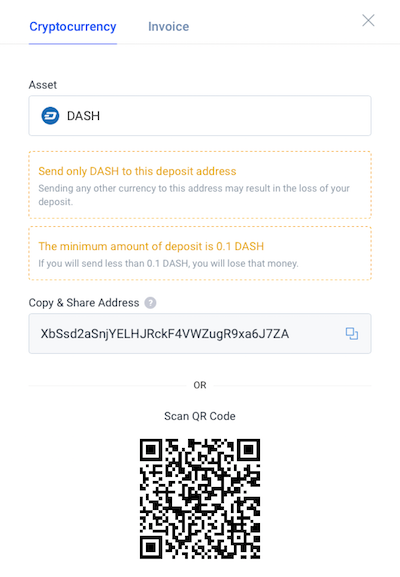
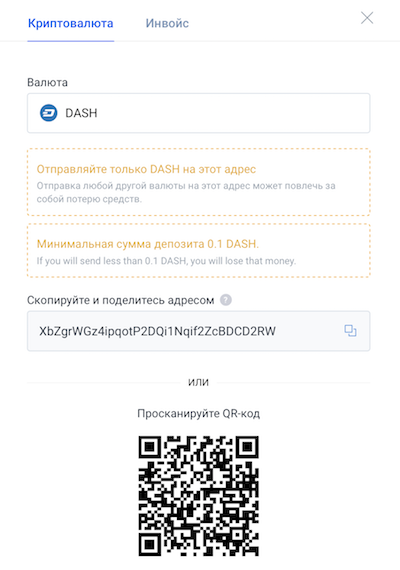
Updates

diff --git a/ru/waves-client/transfers-and-gateways/monero-transfers.md b/ru/waves-client/transfers-and-gateways/monero-transfers.md
@@ -1,63 +1,73 @@
-# How to receive and send Monero
+# **Как отправить и получить Monero**.
 
-Waves allow you to hold and transfer Monero on its blockchain. This works through a so-called Multigateway approach: Monero sent to a user's deposit address available in the Waves wallet and after the deposit the user receives a Monero token \(wMonero\) on the Waves blockchain. Every single Monero token is backed 1:1 with a real Monero.
+Waves client позволяет хранить и переводить Monero внутри сети Waves. Это возможно благодаря шлюзу: Monero поступают на Monero адрес выданный пользователю в Waves client, а взамен пользователь получает ассет Monero в сети Waves (wMonero). При выводе wMonero из сети Waves пользователь получает Monero из расчета 1:1.
 
-Read more about [What is a payment gateway?](/frequently-asked-questions-faq/transfers-and-gateways/payment-gateway.md)
+Всю исчерпывающую информацию о работе Monero шлюза вы найдёте в этой статье [Что такое платежный шлюз](/ru/frequently-asked-questions-faq/transfers-and-gateways/payment-gateway.md)
 
-## **How to receive Monero**
+## **Как получить Monero**.
 
-Open your Waves wallet
-In the Monero section, click on the **Receive**.
+Откройте свой Waves кошелек и в секции Monero нажмите **Получить**.
 
-![](/_assets/monero_transfers_01.png)
+![](/ru/_assets/monero_transfers_01.png)
 
-The following pop-up will appear.
-Copy the shown Monero address or Scan QR Code and send a payment.
-Read the conditions carefully in yellow boxes before proceeding.
+В появившемся окне вы увидите Monero адрес.
+Используйте его в качестве адреса получателя, чтобы ввести Monero в свой Waves аккаунт
+А также вы можете просканировать QR-код, в котором зашифрован этот Monero адрес.
+Перед этим внимательно прочитайте условия ввода Monero, которые выделены жёлтой пунктирной линией.
 
-**Note**: Monero Payment ID already included in the recipient Monero address.
-But if the sender side required Payment ID, please contact Coinomat support team - support@coinomat.com
+**Внимание**: Monero Payment ID уже включен в адрес получателя Monero.
+Но если стороне отправителя требуется Payment ID (идентификатор платежа), обратитесь в службу поддержки Coinomat - **support@coinomat.com**
 
-![](/_assets/monero_transfers_02.png)
+![](/ru/_assets/monero_transfers_02.png)
 
-**Note**: Processing can take up to 120 minutes.
+**Внимание**: процесс ввода Monero в ваш Waves аккаунт может занять до 120 минут.
 
-## **How to send Monero**
+## **Как отправить Monero**.
 
-Open your Waves wallet  
-In the Monero section, click on the **Send** button.
+Откройте ваш Waves кошелек и в Monero секции нажмите **Отправить**.
 
-![](/_assets/monero_transfers_03.png)
+![](/ru/_assets/monero_transfers_01.png)
 
-The following pop-up will appear.
+В появившемся окне введите:
 
-Paste the Monero address you want to send to, Payment ID which you are getting from the recipient side as well as the amount of Monero.
+- в строку **Получатель** Monero адрес получателя;
+- в строку **Количество** сумму Monero, которую вы хотите отправить на Monero адрес Получателя.
 
-Please note that the gateway charges 0.01 Monero for the gateway fee as well as 0.001 Waves for the network fee. Read the conditions carefully in yellow boxes before proceeding.
-After you have filled the form, click on the **Continue** button.
+**Будьте внимательны**: комиссия Monero шлюза за обработку транзакции составит 0,01 Monero, а комиссия сети Waves за проведение транзакции составлит 0,001 Waves.
 
-![](/_assets/monero_transfers_04.png)
+Внимательно прочитайте условия вывода Monero, которые выделены жёлтой пунктирной линией.
 
-The following pop-up will appear.  
-To complete the operation, click on the **Confirm** or **Back** to repeat the process.
+После заполнения всех строк и прочтения условий нажмите **Продолжить**.
 
-![](/_assets/monero_transfers_05.png)
+![](/ru/_assets/monero_transfers_04.png)
 
-**Note**: Processing can take up to 120 minutes.
+Ещё раз проверьте данные транзакции в появившемся окне.
 
-## **How to create internal transaction through Waves network**
+Если все данные верны нажмите **Подтвердить**. Для корректировки данных нажмите **Назад**.
 
-You can send Monero directly to another Waves account, just use the recipient Waves address, click on Send and fill-in the sending form.
+![](/ru/_assets/monero_transfers_05.png)
 
-**Note.** The network fee is only 0.001 Waves \(no gateway fee\)
+**Внимание**: процесс ввода Monero в ваш Waves аккаунт может занять до 120 минут.
 
-![](/_assets/monero_transfers_06.png)
+## **Как перевести Monero в другой Waves аккаунт**.
 
-After you have completed the form, click on the **Continue** button.
+Откройте ваш Waves кошелек и в Monero секции нажмите **Отправить**.
 
-![](/_assets/monero_transfers_07.png)
+![](/ru/_assets/monero_transfers_01.png)
 
-The following pop-up will appear.  
-To complete the operation, click on the **Confirm** or **Back** to repeat the process.
+В появившемся окне введите:
 
-![](/_assets/monero_transfers_08.png)
+- в строку **Получатель** Waves адрес получателя;
+- в строку **Количество** сумму Monero, которую вы хотите отправить на Waves адрес Получателя.
+
+**Будьте внимательны**: комиссия сети Waves за проведение транзакции составит 0,001 Waves.
+
+После заполнения всех строк нажмите **Продолжить**.
+
+![](/ru/_assets/monero_transfers_07.png)
+
+Ещё раз проверьте данные транзакции в появившемся окне.
+
+Если все данные верны нажмите **Подтвердить**. Для корректировки данных нажмите **Назад**.
+
+![](/ru/_assets/monero_transfers_08.png)

diff --git a/ru/waves-client/transfers-and-gateways/bitcoin-cash-transfers.md b/ru/waves-client/transfers-and-gateways/bitcoin-cash-transfers.md
@@ -1,59 +1,70 @@
-# How to receive and send Bitcoin Cash
+# **Как отправить и получить Bitcoin Cash**.
 
-Waves allow you to hold and transfer Bitcoin Cash on its blockchain. This works through a so-called Multigateway approach: Bitcoins Cash are sent to a user's deposit address available in the Waves wallet and after the deposit the user receives a Bitcoin Cash token \(wBCH\) on the Waves blockchain. Every single Bitcoin Cash token is backed 1:1 with a real Bitcoin Cash.
+Waves client позволяет хранить и переводить Bitcoin Cash внутри сети Waves. Это возможно благодаря шлюзу: Bitcoin Cash поступают на Bitcoin Cash адрес выданный пользователю в Waves client, а взамен пользователь получает ассет Bitcoin Cash в сети Waves (wBCH). При выводе wBCH из сети Waves пользователь получает Bitcoin Cash из расчета 1:1.
 
-Read more about [What is a payment gateway?](/frequently-asked-questions-faq/transfers-and-gateways/payment-gateway.md)
+Всю исчерпывающую информацию о работе Bitcoin Cash шлюза вы найдёте в этой статье [Что такое платежный шлюз](/ru/frequently-asked-questions-faq/transfers-and-gateways/payment-gateway.md)
 
-## **How to receive Bitcoin Cash**
+## **Как получить Bitcoin Cash**.
 
-Open your Waves wallet  
-In the Bitcoin Cash section, click on the **Receive** button.
+Откройте свой Waves кошелек и в секции Bitcoin Cash нажмите **Получить**.
 
-![](/_assets/bch_transfers_01.png)
+![](/ru/_assets/bch_transfers_01.png)
 
-The following pop-up will appear.  
-Copy the shown Bitcoin Cash address or Scan QR Code and send a payment.  
-Read the conditions carefully in yellow boxes before proceeding.
+В появившемся окне вы увидите Bitcoin Cash адрес.
+Используйте его в качестве адреса получателя, чтобы ввести Bitcoin Cash в свой Waves аккаунт
+А также вы можете просканировать QR-код, в котором зашифрован этот Bitcoin Cash адрес.
+Перед этим внимательно прочитайте условия ввода Bitcoin Cash, которые выделены жёлтой пунктирной линией.
 
-![](/_assets/bch_transfers_02.png)
+![](/ru/_assets/bch_transfers_02.png)
 
-**Note**: Processing can take up to 120 minutes.
+**Внимание**: процесс ввода Bitcoin Cash в ваш Waves аккаунт может занять до 120 минут.
 
-## **How to send Bitcoin Cash**
+## **Как отправить Bitcoin Cash**.
 
-Open your Waves wallet  
-In the Bitcoin Cash section, click on the **Send** button.
+Откройте ваш Waves кошелек и в Bitcoin Cash секции нажмите **Отправить**.
 
-![](/_assets/bch_transfers_01.png)
+![](/ru/_assets/bch_transfers_01.png)
 
-The following pop-up will appear.  
-Paste the Bitcoin Cash address you want to send to as well as the amount of Bitcoin Cash.  
-Please note that the gateway charges 0.01 BCH for the gateway fee as well as 0.001 Waves for the network fee. Read the conditions carefully in yellow boxes before proceeding.
+В появившемся окне введите:
 
-After you have filled the form, click on the **Continue** button.
+- в строку **Получатель** Bitcoin Cash адрес получателя;
+- в строку **Количество** сумму Bitcoin Cash, которую вы хотите отправить на Bitcoin Cash адрес Получателя.
 
-![](/_assets/bch_transfers_04.png)
+**Будьте внимательны**: комиссия Bitcoin Cash шлюза за обработку транзакции составит 0,01 BCH, а комиссия сети Waves за проведение транзакции составлит 0,001 Waves.
 
-The following pop-up will appear.  
-To complete the operation, click on the **Confirm** or **Back** to repeat the process.
+Внимательно прочитайте условия вывода Bitcoin Cash, которые выделены жёлтой пунктирной линией.
 
-![](/_assets/bch_transfers_05.png)
+После заполнения всех строк и прочтения условий нажмите **Продолжить**.
 
-**Note**: Processing can take up to 120 minutes, the minimum amount is 0.001 BCH.
+![](/ru/_assets/bch_transfers_04.png)
 
-## **How to create internal transaction through Waves network**
+Ещё раз проверьте данные транзакции в появившемся окне.
 
-You can send Bitcoin Cash directly to another Waves account, just use the recipient Waves address, click on Send and fill-in the sending form.
+Если все данные верны нажмите **Подтвердить**. Для корректировки данных нажмите **Назад**.
 
-**Note.** The network fee is only 0.001 Waves \(no gateway fee\)
+![](/ru/_assets/bch_transfers_05.png)
 
-![](/_assets/bch_transfers_01.png)
+**Внимание**: процесс ввода Bitcoin Cash в ваш Waves аккаунт может занять до 120 минут.
 
-After you have completed the form, click on the **Continue** button.
+## **Как перевести Bitcoin Cash в другой Waves аккаунт**.
 
-![](/_assets/bch_transfers_07.png)
+Откройте ваш Waves кошелек и в Bitcoin Cash секции нажмите **Отправить**.
 
-The following pop-up will appear.  
-To complete the operation, click on the **Confirm** or **Back** to repeat the process.
+![](/ru/_assets/bch_transfers_01.png)
 
-![](/_assets/bch_transfers_08.png)
+В появившемся окне введите:
+
+- в строку **Получатель** Waves адрес получателя;
+- в строку **Количество** сумму Bitcoin Cash, которую вы хотите отправить на Waves адрес Получателя.
+
+**Будьте внимательны**: комиссия сети Waves за проведение транзакции составит 0,001 Waves.
+
+После заполнения всех строк нажмите **Продолжить**.
+
+![](/ru/_assets/bch_transfers_07.png)
+
+Ещё раз проверьте данные транзакции в появившемся окне.
+
+Если все данные верны нажмите **Подтвердить**. Для корректировки данных нажмите **Назад**.
+
+![](/ru/_assets/bch_transfers_08.png)

diff --git a/ru/waves-client/transfers-and-gateways/dash-transfers.md b/ru/waves-client/transfers-and-gateways/dash-transfers.md
@@ -1,60 +1,70 @@
-# How to receive and send Dash
+# **Как отправить и получить Dash**.
 
-Waves allow you to hold and transfer Dash on its blockchain. This works through a so-called Multigateway approach: Dash sent to a user's deposit address available in the Waves wallet and after the deposit the user receives a Dash token \(wDASH\) on the Waves blockchain. Every single Dash token is backed 1:1 with a real Dash.
+Waves client позволяет хранить и переводить Dash внутри сети Waves. Это возможно благодаря шлюзу: Dash поступают на Dash адрес выданный пользователю в Waves client, а взамен пользователь получает ассет Dash в сети Waves (wDASH). При выводе wDASH из сети Waves пользователь получает Dash из расчета 1:1.
 
-Read more about [What is a payment gateway?](/frequently-asked-questions-faq/transfers-and-gateways/payment-gateway.md)
+Всю исчерпывающую информацию о работе Dash шлюза вы найдёте в этой статье [Что такое платежный шлюз](/ru/frequently-asked-questions-faq/transfers-and-gateways/payment-gateway.md)
 
-## **How to receive Dash**
+## **Как получить Dash**.
 
-Open your Waves wallet
-In the Dash section, click on the **Receive**.
+Откройте свой Waves кошелек и в секции Dash нажмите **Получить**.
 
-![](/_assets/dash_transfers_01.png)
+![](/ru/_assets/dash_transfers_01.png)
 
-The following pop-up will appear.
-Copy the shown Dash address or Scan QR Code and send a payment.
-Read the conditions carefully in yellow boxes before proceeding.
+В появившемся окне вы увидите Dash адрес.
+Используйте его в качестве адреса получателя, чтобы ввести Dash в свой Waves аккаунт
+А также вы можете просканировать QR-код, в котором зашифрован этот Dash адрес.
+Перед этим внимательно прочитайте условия ввода Dash, которые выделены жёлтой пунктирной линией.
 
-![](/_assets/dash_transfers_02.png)
+![](/ru/_assets/dash_transfers_02.png)
 
-**Note**: Processing can take up to 120 minutes.
+**Внимание**: процесс ввода Dash в ваш Waves аккаунт может занять до 120 минут.
 
-## **How to send Dash**
+## **Как отправить Dash**.
 
-Open your Waves wallet  
-In the Dash section, click on the **Send** button.
+Откройте ваш Waves кошелек и в Dash секции нажмите **Отправить**.
 
-![](/_assets/dash_transfers_03.png)
+![](/ru/_assets/dash_transfers_03.png)
 
-The following pop-up will appear.
+В появившемся окне введите:
 
-Paste the Dash address you want to send to as well as the amount of Dash.
+- в строку **Получатель** Dash адрес получателя;
+- в строку **Количество** сумму Dash, которую вы хотите отправить на Dash адрес Получателя.
 
-Please note that the gateway charges 0.001 Dash for the gateway fee as well as 0.001 Waves for the network fee. Read the conditions carefully in yellow boxes before proceeding.
-After you have filled the form, click on the **Continue** button.
+**Будьте внимательны**: комиссия Dash шлюза за обработку транзакции составит 0,001 DASH, а комиссия сети Waves за проведение транзакции составлит 0,001 Waves.
 
-![](/_assets/dash_transfers_04.png)
+Внимательно прочитайте условия вывода Dash, которые выделены жёлтой пунктирной линией.
 
-The following pop-up will appear.  
-To complete the operation, click on the **Confirm** or **Back** to repeat the process.
+После заполнения всех строк и прочтения условий нажмите **Продолжить**.
 
-![](/_assets/dash_transfers_05.png)
+![](/ru/_assets/dash_transfers_04.png)
 
-**Note**: Processing can take up to 120 minutes.
+Ещё раз проверьте данные транзакции в появившемся окне.
 
-## **How to create internal transaction through Waves network**
+Если все данные верны нажмите **Подтвердить**. Для корректировки данных нажмите **Назад**.
 
-You can send Dash directly to another Waves account, just use the recipient Waves address, click on Send and fill-in the sending form.
+![](/ru/_assets/dash_transfers_05.png)
 
-**Note.** The network fee is only 0.001 Waves \(no gateway fee\)
+**Внимание**: процесс ввода Dash в ваш Waves аккаунт может занять до 120 минут.
 
-![](/_assets/dash_transfers_06.png)
+## **Как перевести Dash в другой Waves аккаунт**.
 
-After you have completed the form, click on the **Continue** button.
+Откройте ваш Waves кошелек и в Dash секции нажмите **Отправить**.
 
-![](/_assets/dash_transfers_07.png)
+![](/ru/_assets/dash_transfers_06.png)
 
-The following pop-up will appear.  
-To complete the operation, click on the **Confirm** or **Back** to repeat the process.
+В появившемся окне введите:
 
-![](/_assets/dash_transfers_08.png)
+- в строку **Получатель** Waves адрес получателя;
+- в строку **Количество** сумму Dash, которую вы хотите отправить на Waves адрес Получателя.
+
+**Будьте внимательны**: комиссия сети Waves за проведение транзакции составит 0,001 Waves.
+
+После заполнения всех строк нажмите **Продолжить**.
+
+![](/ru/_assets/dash_transfers_07.png)
+
+Ещё раз проверьте данные транзакции в появившемся окне.
+
+Если все данные верны нажмите **Подтвердить**. Для корректировки данных нажмите **Назад**.
+
+![](/ru/_assets/dash_transfers_08.png)
